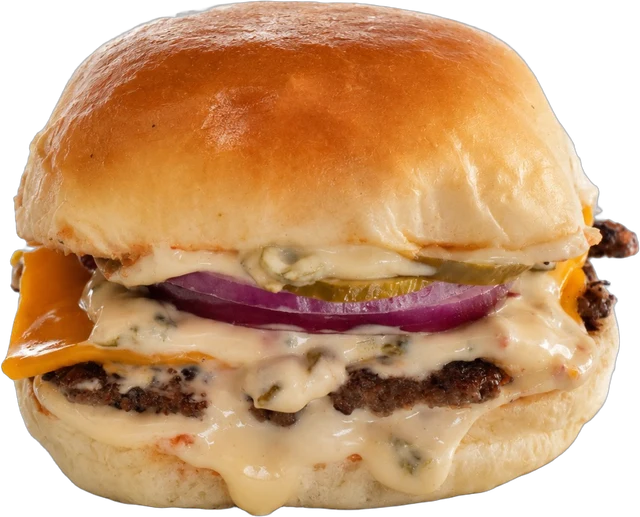
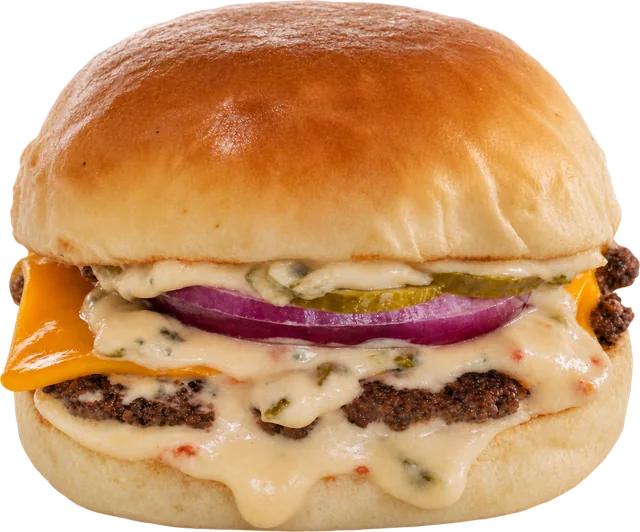
Burger görselleri: işletmenin şeffaf PNG'leri (8 ürün) — arka plan kesimi yok, yalnız boşluk kırpma + 640px WebP; IMG_V 11; orijinaller ve test-metrics GitHub dışı

diff --git a/src/app.js b/src/app.js
@@ -9,7 +9,7 @@ import { ARMY_SVG, ARMY_KIND } from './data/army-figs.js';
 import { MODELS, createViewer, prefetchModel } from './model3d.js';
 
 /* fotoğraflar yeniden kesildiğinde artır (tarayıcı önbelleğini kırar) */
-const IMG_V = 10;
+const IMG_V = 11;
 /* menü verisi pakete gömülü (ayrı istek ve bekleme yok); src/data/menu.json değişince build yeniden alır */
 import menu from './data/menu.json';
 

diff --git a/scripts/prep-realistic.py b/scripts/prep-realistic.py
@@ -1,0 +1,50 @@
+"""Hazır şeffaf PNG'leri siteye hazırlar (arka plan kesimi YOK, ürün piksellerine dokunulmaz).
+  1) toz: neredeyse tam saydam kenar noktaları (alfa <= 12) silinir
+  2) gövde: %99 opak pikseller (alfa >= 245) tam opak yapılır
+  3) kırpma: yalnız ürünün etrafındaki boş şeffaf alan atılır
+  4) 640x640 kutuya sığdırılır (kenar kararmasın diye önceden çarpılmış alfa ile), WebP (kalite 82, alfa 90)
+Dosya adı menüdeki ürün adıyla eşleştirilir; mevcut img/new görseli img/old/onceki/ altına yedeklenir.
+Çalıştır: python scripts/prep-realistic.py public/img/new-realistic
+"""
+import json, os, re, shutil, sys, unicodedata
+from PIL import Image
+
+ROOT = os.path.dirname(os.path.dirname(os.path.abspath(__file__)))
+SRC = sys.argv[1]
+NEW = os.path.join(ROOT, 'public/img/new')
+BAK = os.path.join(ROOT, 'public/img/old/onceki')
+
+def key(s):
+    s = s.replace('ı', 'i').replace('İ', 'i').lower()
+    s = unicodedata.normalize('NFKD', s)
+    s = ''.join(c for c in s if not unicodedata.combining(c))
+    return re.sub(r'[^a-z0-9]+', '', s)
+
+def walk(o):
+    if isinstance(o, dict):
+        if 'name' in o and 'img' in o: yield o
+        for v in o.values(): yield from walk(v)
+    elif isinstance(o, list):
+        for v in o: yield from walk(v)
+
+menu = json.load(open(os.path.join(ROOT, 'src/data/menu.json'), encoding='utf-8'))
+byname = {key(p['name']): p for p in walk(menu) if p.get('img')}
+
+os.makedirs(BAK, exist_ok=True)
+for f in sorted(os.listdir(SRC)):
+    if not f.lower().endswith('.png'): continue
+    p = byname.get(key(os.path.splitext(f)[0]))
+    if not p: print('EŞLEŞMEDİ:', f); continue
+    im = Image.open(os.path.join(SRC, f)).convert('RGBA')
+    r, g, b, a = im.split()
+    a = a.point(lambda v: 0 if v <= 12 else (255 if v >= 245 else v))
+    im = Image.merge('RGBA', (r, g, b, a))
+    im = im.crop(a.point(lambda v: 255 if v > 40 else 0).getbbox())
+    im = im.convert('RGBa')                      # önceden çarpılmış alfa: küçültürken kenarda koyu hale çıkmaz
+    im.thumbnail((640, 640), Image.LANCZOS)
+    im = im.convert('RGBA')
+    out = os.path.join(NEW, p['img'])
+    if os.path.exists(out) and not os.path.exists(os.path.join(BAK, p['img'])):
+        shutil.copy2(out, os.path.join(BAK, p['img']))
+    im.save(out, 'WEBP', quality=82, alpha_quality=90, method=6)
+    print(f'{f:32} -> {p["img"]:34} {im.size} {os.path.getsize(out)//1024} KB')
